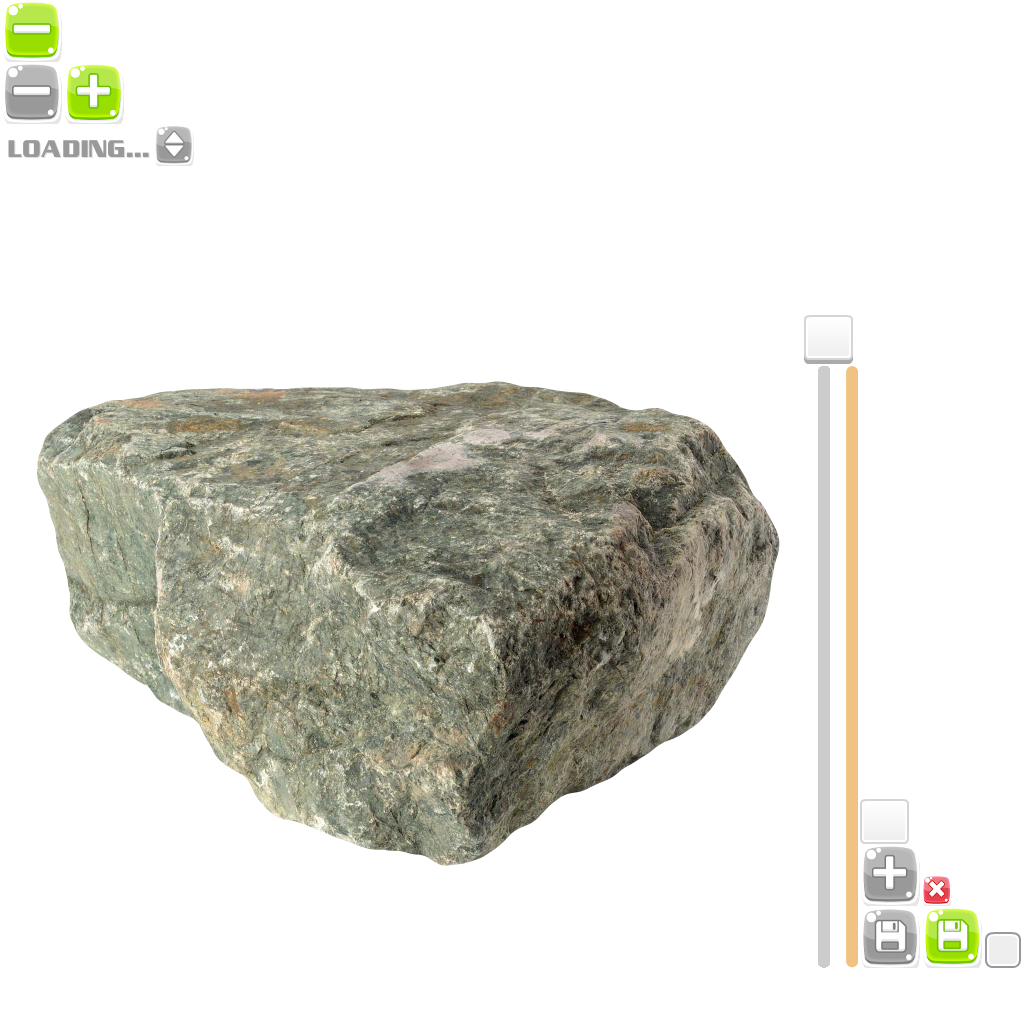
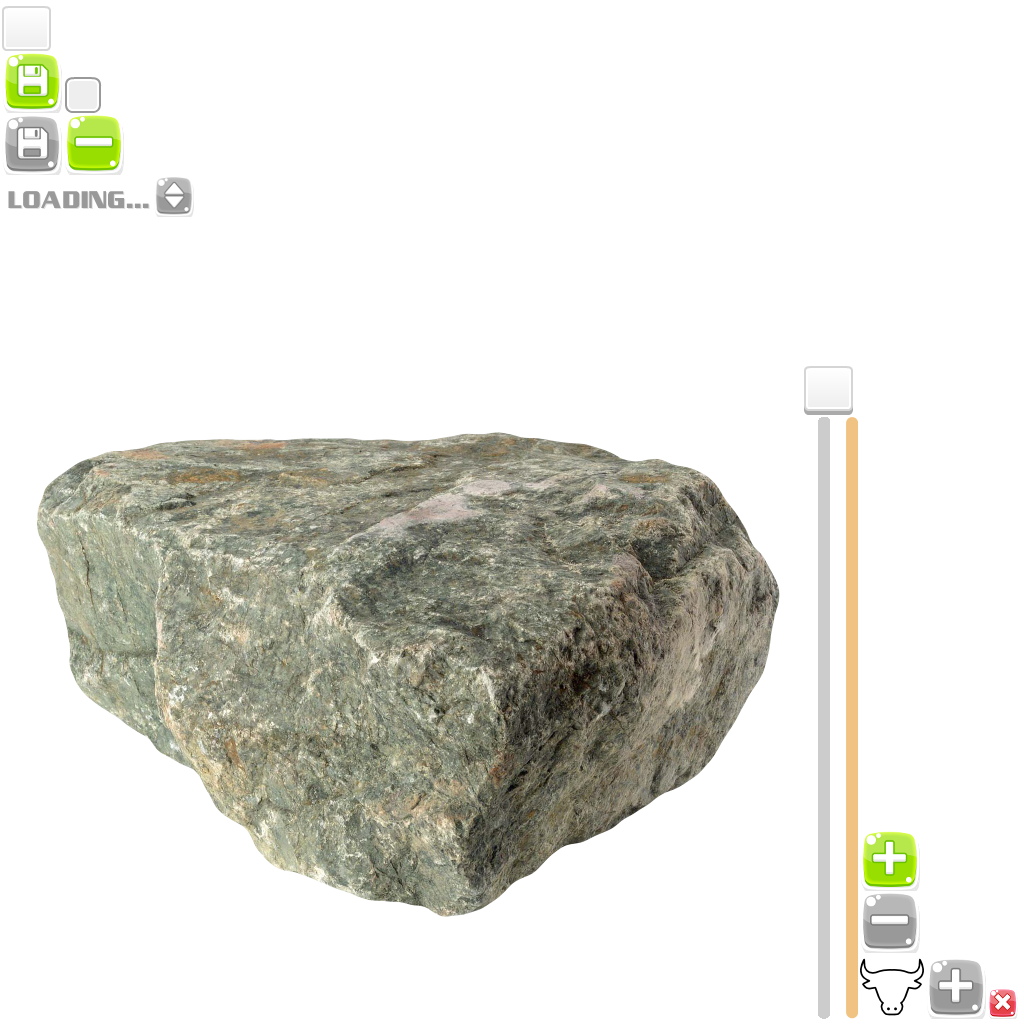
Korovans added.

diff --git a/core/src/ru/kvachenko/stoneclicker/screens/GameScreen.java b/core/src/ru/kvachenko/stoneclicker/screens/GameScreen.java
@@ -34,13 +34,12 @@ import com.badlogic.gdx.scenes.scene2d.InputListener;
 import com.badlogic.gdx.scenes.scene2d.Stage;
 import com.badlogic.gdx.scenes.scene2d.actions.Actions;
 import com.badlogic.gdx.scenes.scene2d.ui.*;
+import com.badlogic.gdx.utils.Align;
 import com.badlogic.gdx.utils.viewport.ScreenViewport;
 import ru.kvachenko.stoneclicker.StoneClicker;
-import ru.kvachenko.stoneclicker.StonesCounter;
+import ru.kvachenko.stoneclicker.Counter;
 import ru.kvachenko.stoneclicker.Upgrade;
 
-import java.math.BigDecimal;
-import java.util.ArrayList;
 import java.util.LinkedList;
 
 /**
@@ -70,15 +69,15 @@ public class GameScreen implements Screen {
             Label costLabel = new Label("", skin) {
                 @Override
                 public void act(float delta) {
-                    setText("Cost:\n" + StonesCounter.shortedValueOf(upgrade.getCost()));
+                    setText("Cost:\n" + Counter.shortedValueOf(upgrade.getCost()));
                     super.act(delta);
                 }
             };
             Label bonusesLabel = new Label("", skin, "upgradeLabel") {
                 @Override
                 public void act(float delta) {
-                    setText("Power: " + StonesCounter.shortedValueOf(upgrade.getPowerBonus()) +
-                     " SPS: " + StonesCounter.shortedValueOf(upgrade.getSPSBonus()));
+                    setText("Power: " + Counter.shortedValueOf(upgrade.getPowerBonus()) +
+                     " SPS: " + Counter.shortedValueOf(upgrade.getSPSBonus()));
                     super.act(delta);
                 }
             };
@@ -149,6 +148,7 @@ public class GameScreen implements Screen {
     private TextureAtlas images;
     private Skin skin;
     private Image stone;
+    private Image korovanImg;
     private Stage mainStage;
     private Stage uiStage;
     private Label stonesCounterLabel;
@@ -243,7 +243,7 @@ public class GameScreen implements Screen {
                     ));
 
                 // Each click adds stones
-                gameController.getScore().addStones(gameController.getClickPower().getCounter());
+                gameController.getScore().increaseValue(gameController.getClickPower().getCounter());
                 return super.touchDown(screenX, screenY, pointer, button);
             }
         };
@@ -252,6 +252,25 @@ public class GameScreen implements Screen {
         // Stone initialization
         stone = new Image(images.findRegion("stone"));
         mainStage.addActor(stone);
+
+        // Korovan initialization
+        korovanImg = new Image(images.findRegion("cow"));
+        korovanImg.addAction(Actions.fadeOut(0));
+        korovanImg.addListener(new InputListener() {
+            @Override
+            public boolean touchDown(InputEvent event, float x, float y, int pointer, int button) {
+                if (gameController.getKorovan().isActive()) {
+                    korovanImg.clearActions();
+                    korovanImg.addAction(Actions.fadeOut(0));
+                    gameController.resetKorovanTimer();
+                    gameController.getKorovan().takeBonus();
+                    gameController.getKorovan().setActive(false);
+                    return true;
+                }
+                return false;
+            }
+        });
+        uiStage.addActor(korovanImg);
 
         // Screen variables initialization
         screenWidth = mainStage.getViewport().getScreenWidth();
@@ -263,21 +282,21 @@ public class GameScreen implements Screen {
         stonesCounterLabel = new Label("--", skin) {
             @Override
             public void act(float delta) {
-                setText(gameController.getScore().getStones());
+                setText(gameController.getScore().getValue());
                 super.act(delta);
             }
         };
         stonesPerSecondLabel = new Label("--", skin) {
             @Override
             public void act(float delta) {
-                setText(gameController.getStonesPerSecond().getStones());
+                setText(gameController.getStonesPerSecond().getValue());
                 super.act(delta);
             }
         };
         clickPowerLabel = new Label("--", skin) {
             @Override
             public void act(float delta) {
-                setText(gameController.getClickPower().getStones());
+                setText(gameController.getClickPower().getValue());
                 super.act(delta);
             }
         };
@@ -426,12 +445,29 @@ public class GameScreen implements Screen {
         if (!messages.isEmpty()) {
             if (!messagesTable.hasActions()) {
                 messagesLabel.setText(messages.removeFirst());
+                messagesLabel.setAlignment(Align.center);
                 messagesTable.addAction(Actions.sequence(
                         Actions.fadeIn(1),
                         Actions.delay(4),
                         Actions.fadeOut(1)));
                 messagesTable.toFront();
             }
+        }
+
+        // Show korovanImg if it's necessary
+        float korovanTimer = gameController.getKorovanTimer();
+        if (korovanTimer > 0 && !korovanImg.hasActions()) {
+            korovanImg.toFront();
+            korovanImg.setPosition(
+                    MathUtils.random(0f, screenWidth),
+                    MathUtils.random(0f, screenHeight));
+            korovanImg.setPosition(
+                    MathUtils.clamp(korovanImg.getX(), 0, screenWidth - korovanImg.getWidth()),
+                    MathUtils.clamp(korovanImg.getY(), 0, screenHeight - korovanImg.getHeight()));
+            korovanImg.addAction(Actions.sequence(
+                    Actions.fadeIn(0.1f),
+                    Actions.delay(korovanTimer),
+                    Actions.fadeOut(0.4f)));
         }
 
         // Update game state

diff --git a/core/src/ru/kvachenko/stoneclicker/StoneClicker.java b/core/src/ru/kvachenko/stoneclicker/StoneClicker.java
@@ -22,6 +22,7 @@ package ru.kvachenko.stoneclicker;
 import com.badlogic.gdx.Game;
 import com.badlogic.gdx.Gdx;
 import com.badlogic.gdx.files.FileHandle;
+import com.badlogic.gdx.math.MathUtils;
 import com.badlogic.gdx.utils.Base64Coder;
 import com.badlogic.gdx.utils.Json;
 import com.badlogic.gdx.utils.JsonWriter;
@@ -53,11 +54,13 @@ public class StoneClicker extends Game {
     private Json json;                              // Json for save and load game
     private SaveGameDescriptor gameSaveDescriptor;  // Object for JSON
     private FileHandle gameSaveFile;                // File for saving game state
-    private StonesCounter score;                    // Total amount of stones
-    private StonesCounter stonesPerSecond;          //
-    private StonesCounter clickPower;               // Num of stones given by one click
+    private Counter score;                          // Total amount of stones
+    private Counter stonesPerSecond;                //
+    private Counter clickPower;                     // Num of stones given by one click
     private float timeElapsed;                      //
     private float autoSaveTimer;                    //
+    private float korovanTimer;                     //
+    private Bonus korovan;                          //
     private ArrayList<Upgrade> upgradesList;        //
     private LinkedList<String> messagesList;        //
 
@@ -74,9 +77,11 @@ public class StoneClicker extends Game {
         json.setOutputType(JsonWriter.OutputType.json);
         gameSaveFile = Gdx.files.local("save.scs");     // Stone-Clicker-Save (.scs)
 
-        stonesPerSecond = new StonesCounter();
-        clickPower = new StonesCounter(1);
+        stonesPerSecond = new Counter();
+        clickPower = new Counter(1);
         autoSaveTimer = 0;
+        korovanTimer = 0;
+        korovan = new Bonus(this);
         upgradesList = new ArrayList<Upgrade>();
         messagesList = new LinkedList<String>();
 
@@ -90,10 +95,22 @@ public class StoneClicker extends Game {
 
 	@Override
 	public void render () {
-        // Each second add stonesPerSecond value to score
         timeElapsed += Gdx.graphics.getDeltaTime();
+
+        // One time in second has chance to spawn korovan
+        if (korovanTimer <= 0 && timeElapsed >= 1) {
+            if (MathUtils.random(1, 100) > 95) {
+                korovan.setActive(true);
+                korovanTimer = MathUtils.random(0.5f, 3.0f);
+            }
+        }
+        else if (korovanTimer > 0) korovanTimer -= Gdx.graphics.getDeltaTime();
+        else if (korovan.isActive()) korovan.setActive(false);
+
+
+        // Each second add stonesPerSecond value to score
         if (timeElapsed >= 1) {
-            score.addStones(stonesPerSecond.getCounter());
+            score.increaseValue(stonesPerSecond.getCounter());
             timeElapsed = 0;
         }
 
@@ -114,7 +131,7 @@ public class StoneClicker extends Game {
 
     public void newGame() {
         gameSaveDescriptor = new SaveGameDescriptor();
-        score = new StonesCounter();
+        score = new Counter();
         timeElapsed = 0;
 
         // Get upgrades list from DB
@@ -142,33 +159,37 @@ public class StoneClicker extends Game {
     public void loadGame() {
         gameSaveDescriptor = json.fromJson(SaveGameDescriptor.class, Base64Coder.decodeString(gameSaveFile.readString()));
         //System.out.println(json.prettyPrint(gameSaveDescriptor));
-        score = new StonesCounter(new BigDecimal(gameSaveDescriptor.score));
+        score = new Counter(new BigDecimal(gameSaveDescriptor.score));
         timeElapsed = gameSaveDescriptor.timeElapsed;
 
         for (Upgrade.UpgradeSaveDescriptor u: gameSaveDescriptor.upgradesList) {
             Upgrade upgrade = new Upgrade(u.name, new BigDecimal(u.baseCost), new BigDecimal(u.powerBonus), new BigDecimal(u.SPSBonus));
             upgrade.setAmount(u.amount);
-            clickPower.addStones(upgrade.getPowerBonus().multiply(new BigDecimal(upgrade.getAmount())));
-            stonesPerSecond.addStones(upgrade.getSPSBonus().multiply(new BigDecimal(upgrade.getAmount())));
+            clickPower.increaseValue(upgrade.getPowerBonus().multiply(new BigDecimal(upgrade.getAmount())));
+            stonesPerSecond.increaseValue(upgrade.getSPSBonus().multiply(new BigDecimal(upgrade.getAmount())));
             upgradesList.add(upgrade);
         }
 
         double offlineTime = (TimeUtils.millis() - gameSaveDescriptor.timestamp) / 1000;
         BigDecimal offlineBonus = stonesPerSecond.getCounter().multiply(new BigDecimal(offlineTime));
-        messagesList.addLast("Offline Bonus: " + StonesCounter.shortedValueOf(offlineBonus));
-        score.addStones(offlineBonus);
+        messagesList.addLast("Offline Bonus: " + Counter.shortedValueOf(offlineBonus));
+        score.increaseValue(offlineBonus);
     }
 
-    public StonesCounter getScore() {
+    public Counter getScore() {
         return score;
     }
 
-    public StonesCounter getStonesPerSecond() {
+    public Counter getStonesPerSecond() {
         return stonesPerSecond;
     }
 
-    public StonesCounter getClickPower() {
+    public Counter getClickPower() {
         return clickPower;
+    }
+
+    public Bonus getKorovan() {
+        return korovan;
     }
 
     public ArrayList<Upgrade> getUpgradesList() {
@@ -178,4 +199,10 @@ public class StoneClicker extends Game {
     public LinkedList<String> getMessagesList() {
         return messagesList;
     }
+
+    public float getKorovanTimer() {
+        return korovanTimer;
+    }
+
+    public void resetKorovanTimer() { korovanTimer = 0; }
 }

diff --git a/core/src/ru/kvachenko/stoneclicker/Bonus.java b/core/src/ru/kvachenko/stoneclicker/Bonus.java
@@ -1,0 +1,57 @@
+/*
+ * Copyright (c) 2016 Kvachenko A. [feedback@kvachenko.ru]
+ *
+ * This file is part of program StoneClicker.
+ *
+ * This program is free software: you can redistribute it and/or modify
+ *   it under the terms of the GNU General Public License as published by
+ *   the Free Software Foundation, either version 3 of the License, or
+ *   (at your option) any later version.
+ *
+ * This program is distributed in the hope that it will be useful,
+ *   but WITHOUT ANY WARRANTY; without even the implied warranty of
+ *   MERCHANTABILITY or FITNESS FOR A PARTICULAR PURPOSE.
+ *   See the GNU General Public License for more details.
+ *
+ * You should have received a copy of the GNU General Public License
+ *   along with this program.  If not, see <http://www.gnu.org/licenses/>.
+ */
+
+package ru.kvachenko.stoneclicker;
+
+import com.badlogic.gdx.math.MathUtils;
+
+import java.math.BigDecimal;
+
+/**
+ * @author Sasha Kvachenko
+ *         Created on 09.09.2016.
+ *         <p>
+ *
+ */
+public class Bonus {
+    private boolean active;
+    private StoneClicker gameController;
+    private BigDecimal bonusValue;
+
+    public Bonus(StoneClicker s) {
+        active = false;
+        gameController = s;
+        bonusValue = new BigDecimal(0);
+    }
+
+    public void takeBonus() {
+        BigDecimal randomValue = new BigDecimal(MathUtils.random(1000, 100000));
+        bonusValue =  gameController.getClickPower().getCounter().multiply(randomValue);
+        gameController.getScore().increaseValue(bonusValue);
+        gameController.getMessagesList().addLast("Korovan Robbery" + "\n" + "Bonus " + Counter.shortedValueOf(bonusValue));
+    }
+
+    public void setActive(boolean active) {
+        this.active = active;
+    }
+
+    public boolean isActive() {
+        return active;
+    }
+}

diff --git a/core/src/ru/kvachenko/stoneclicker/Counter.java b/core/src/ru/kvachenko/stoneclicker/Counter.java
@@ -27,9 +27,8 @@ import java.util.TreeMap;
  *         Created on 18.08.2016.
  *         <p>
  *         Class for store and representation big int values.
- *         // TODO: reneme this class and methods
  */
-public class StonesCounter {
+public class Counter {
     private static TreeMap<Integer, String> prefix;
     private BigDecimal counter;
 
@@ -46,15 +45,15 @@ public class StonesCounter {
         prefix.put(0, "");
     }
 
-    public StonesCounter(BigDecimal initialValue) {
+    public Counter(BigDecimal initialValue) {
         counter = new BigDecimal(initialValue.toString());
     }
 
-    public StonesCounter(int initialValue) {
+    public Counter(int initialValue) {
         counter = new BigDecimal(initialValue);
     }
 
-    public StonesCounter() {
+    public Counter() {
         counter = new BigDecimal("0");
     }
 
@@ -97,15 +96,15 @@ public class StonesCounter {
     /**
      * @return current value of stones counter as string.
      */
-    public String getStones() {
+    public String getValue() {
         return shortedValueOf(counter);
     }
 
-    public void addStones(BigDecimal stones) {
-        counter = counter.add(stones);
+    public void increaseValue(BigDecimal num) {
+        counter = counter.add(num);
     }
 
-    public void removeStones(BigDecimal stones) { counter = counter.subtract(stones); }
+    public void reduceValue(BigDecimal num) { counter = counter.subtract(num); }
 
     /**
      * Compare given value and counter value.

diff --git a/core/src/ru/kvachenko/stoneclicker/Upgrade.java b/core/src/ru/kvachenko/stoneclicker/Upgrade.java
@@ -104,9 +104,9 @@ public class Upgrade {
     public void buy(StoneClicker gameController) {
         if (gameController.getScore().getCounter().compareTo(currentCost) < 0) return;
 
-        gameController.getScore().removeStones(currentCost);
-        gameController.getClickPower().addStones(powerBonus);
-        gameController.getStonesPerSecond().addStones(SPSBonus);
+        gameController.getScore().reduceValue(currentCost);
+        gameController.getClickPower().increaseValue(powerBonus);
+        gameController.getStonesPerSecond().increaseValue(SPSBonus);
         setAmount(++amount);
     }
 
@@ -115,9 +115,9 @@ public class Upgrade {
 
         BigDecimal moneyback = (amount == 1) ? baseCost : baseCost.multiply(costMultiplier.multiply(new BigDecimal(amount - 1)));
 
-        gameController.getScore().addStones(moneyback);
-        gameController.getClickPower().removeStones(powerBonus);
-        gameController.getStonesPerSecond().removeStones(SPSBonus);
+        gameController.getScore().increaseValue(moneyback);
+        gameController.getClickPower().reduceValue(powerBonus);
+        gameController.getStonesPerSecond().reduceValue(SPSBonus);
         amount--;
 
         currentCost = moneyback;
